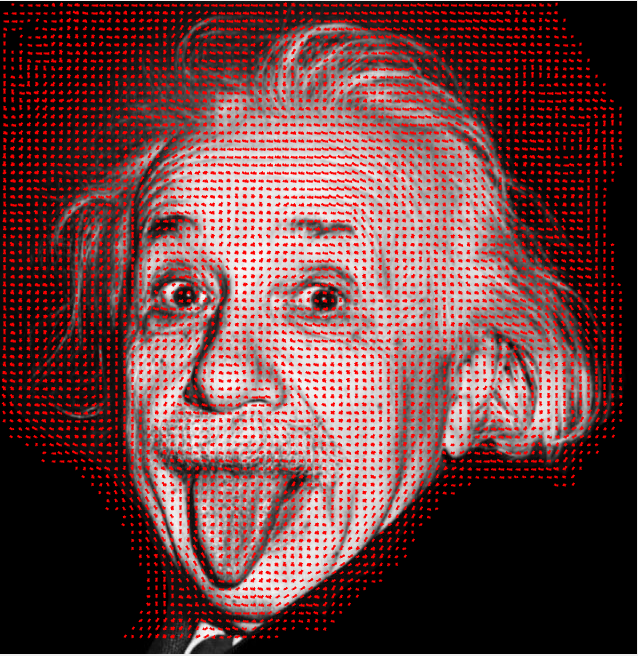
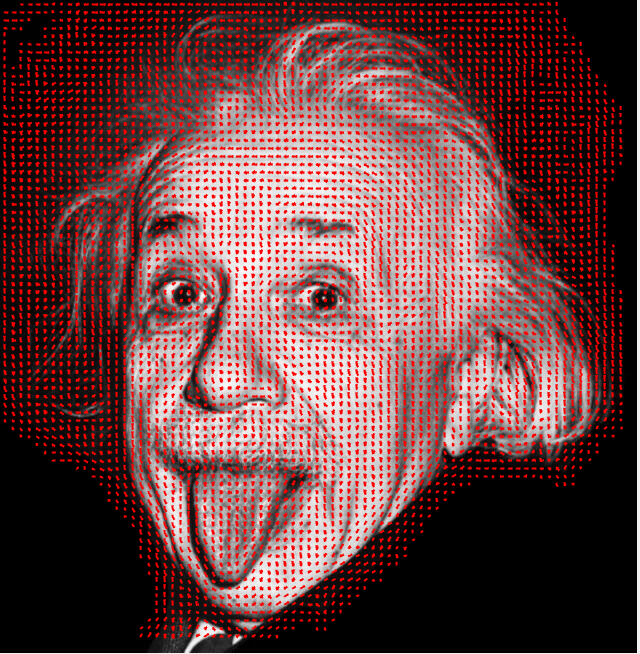
convolution changes

Changed region(s): [[0.0, 0.0, 1.0, 1.0]]

diff --git a/HW1/SOURCE/main.m b/HW1/SOURCE/main.m
@@ -22,7 +22,7 @@ img_size = size(img);
 img_filtered_size = size(im_filtered_x);
 [x,y] = meshgrid(1:3:img_size(2), 1:3:img_size(1));
 subplot(1,3,3), imshow(img), title('Gradient'), hold on;
-q = quiver(x,y,im_filtered_y(2:3:img_filtered_size(1)-1,2:3:img_filtered_size(2)-1),im_filtered_x(2:3:img_filtered_size(1)-1,2:3:img_filtered_size(2)-1));
+q = quiver(x,y,im_filtered_x(2:3:img_filtered_size(1)-1,2:3:img_filtered_size(2)-1), im_filtered_y(2:3:img_filtered_size(1)-1,2:3:img_filtered_size(2)-1));
 q.Color = 'red'; q.AutoScaleFactor = 2; q.LineWidth = 2; q.ShowArrowHead = 'off';
 
 figure;
@@ -33,8 +33,8 @@ subplot(1,1,1), imshow(img), title('HOG features'), hold on;
 for i=1:6
     magnitude = hog(:,:,i)+hog(:,:,i+6)+hog(:,:,i+12)+hog(:,:,i+18);
     theta = 2*(i-1)*pi/12;
-    hog_x = magnitude.*(cos(theta)*ones(h,w));
-    hog_y = magnitude.*(-sin(theta)*ones(h,w));
-    q = quiver(x,y,hog_x,hog_y); q.Color='red'; q.AutoScaleFactor = 0.5; q.LineWidth = 1; q.ShowArrowHead = 'on';
+    hog_x = magnitude.*(cos(theta-pi/2)*ones(h,w));
+    hog_y = magnitude.*(sin(theta-pi/2)*ones(h,w));
+    q = quiver(x,y,hog_x, hog_y); q.Color='red'; q.AutoScaleFactor = 0.5; q.LineWidth = 1; q.ShowArrowHead = 'on';
     hold on;
 end

diff --git a/HW1/SOURCE/GetBlockDescriptor.m b/HW1/SOURCE/GetBlockDescriptor.m
@@ -1,8 +1,8 @@
 function ori_histo_normalized = GetBlockDescriptor(ori_histo, block_size)
     ori_histo_size = size(ori_histo);
     ori_histo_normalized = zeros(ori_histo_size(1)-1, ori_histo_size(2)-1, block_size*block_size*ori_histo_size(3));
-    for i=1:ori_histo_size(1)-1
-        for j=1:ori_histo_size(2)-1
+    for i=1:ori_histo_size(1)-(block_size-1)
+        for j=1:ori_histo_size(2)-(block_size-1)
             ori_histo_block = ori_histo(i:i+block_size-1, j:j+block_size-1, :);
             ori_histo_normalized(i, j, :) = NormalizeLocal(ori_histo_block);
         end

diff --git a/HW1/SOURCE/FilterImage.m b/HW1/SOURCE/FilterImage.m
@@ -5,8 +5,13 @@ function [im_filtered] = FilterImage(im, filter)
     im_filtered = zeros(im_size);
     for i=2:im_size(1)-1
         for j=2:im_size(2)-1
-            im_filtered(i-1, j-1) = sum(sum(padded_im(i-1:i+1, j-1:j+1).*filter));
+            im_filtered(i, j) = convolution(padded_im(i-1:i+1, j-1:j+1), filter);
         end
     end
+end
+
+function [output] = convolution(matA, matB)
+    matB = rot90(matB,2);
+    output = sum(sum(matA.*matB));
 end
 

diff --git a/HW1/SOURCE/GetDifferentialFilter.m b/HW1/SOURCE/GetDifferentialFilter.m
@@ -1,4 +1,4 @@
 function [filter_x, filter_y] = GetDifferentialFilter()
-    filter_x = [1 1 1 ; 0 0 0 ; -1 -1 -1];
-    filter_y = [1 0 -1 ; 1 0 -1 ; 1 0 -1];
+    filter_y = [1 1 1 ; 0 0 0 ; -1 -1 -1];
+    filter_x = [1 0 -1 ; 1 0 -1 ; 1 0 -1];
 end
